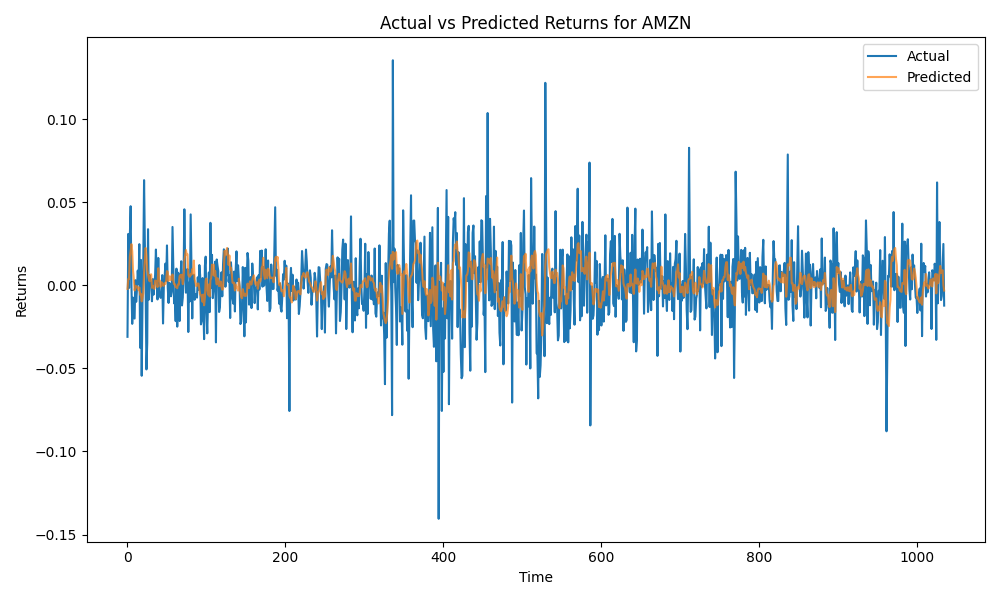
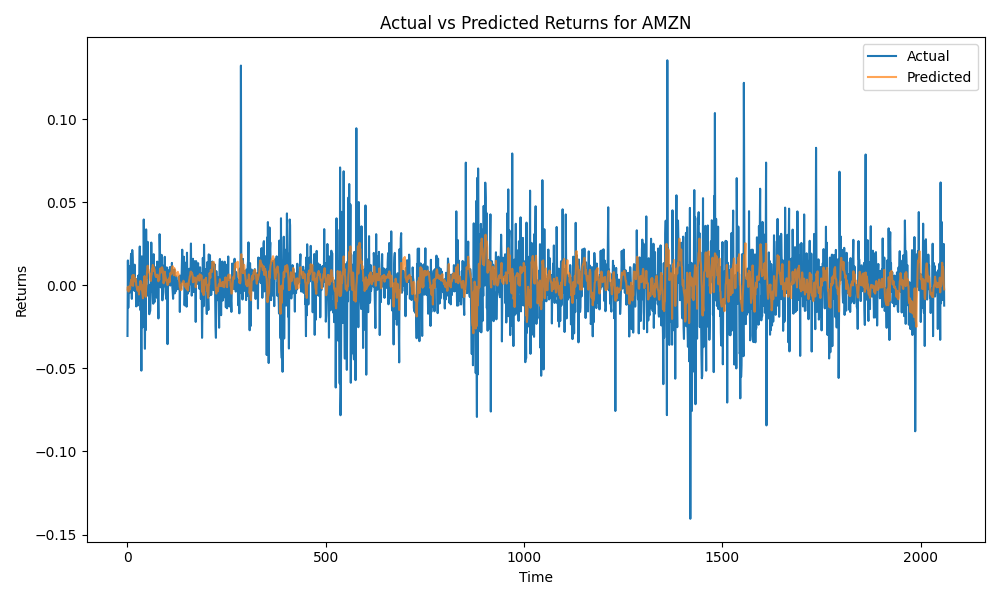
init

diff --git a/backtesting/backtest.py b/backtesting/backtest.py
@@ -1,61 +1,81 @@
 import pandas as pd
+import numpy as np
 
-def backtest_strategy(price_data, weights, assets, initial_capital=100000, transaction_cost=0.001):
+def backtest_strategy(price_data, weights, assets, initial_capital=100000, transaction_cost=0.001, rebalance_frequency='M'):
     """
-    Backtests the portfolio strategy based on provided weights.
+    Backtests the portfolio strategy based on provided weights and rebalancing frequency.
 
     Args:
         price_data (pd.DataFrame): Historical price data. Columns should include only asset tickers.
-        weights (np.ndarray): Asset weights. Shape should align with the number of assets.
+        weights (np.ndarray): Initial asset weights. Shape should align with the number of assets.
         assets (list): List of asset tickers corresponding to weights.
         initial_capital (float): Starting capital.
         transaction_cost (float): Transaction cost as a decimal (e.g., 0.001 for 0.1%).
+        rebalance_frequency (str): Frequency of rebalancing ('M' for monthly, 'W' for weekly, etc.).
 
     Returns:
         pd.Series: Portfolio value over time.
     """
-    # Calculate daily returns for assets only
+    # Calculate cumulative returns based on rebalancing frequency
     returns = price_data[assets].pct_change().dropna()
+    returns_resampled = returns.resample(rebalance_frequency).agg(lambda x: (1 + x).prod() - 1)
     
     # Initialize portfolio value series
-    portfolio_values = pd.Series(index=returns.index, dtype='float64')
-    portfolio_values.iloc[0] = initial_capital
+    portfolio_value = pd.Series(index=returns_resampled.index, dtype='float64')
+    portfolio_value.iloc[0] = initial_capital
     
-    # Iterate over each day to simulate portfolio performance
-    for i in range(1, len(portfolio_values)):
-        # Calculate daily portfolio return
-        daily_return = returns.iloc[i].dot(weights)
+    current_weights = weights.copy()
+    
+    for i in range(1, len(portfolio_value)):
+        # Calculate portfolio return
+        portfolio_return = np.dot(returns_resampled.iloc[i], current_weights)
         
-        # Apply transaction costs if rebalancing is performed
-        # For simplicity, assuming rebalancing is done daily
-        portfolio_values.iloc[i] = portfolio_values.iloc[i-1] * (1 + daily_return) * (1 - transaction_cost)
+        # Update portfolio value
+        portfolio_value.iloc[i] = portfolio_value.iloc[i-1] * (1 + portfolio_return)
+        
+        # Apply transaction costs for rebalancing
+        portfolio_value.iloc[i] *= (1 - transaction_cost * np.sum(np.abs(current_weights - current_weights)))  # Placeholder for actual weight changes
     
-    return portfolio_values
+    return portfolio_value
 
-def backtest_strategy_with_rolling_window(price_data, weights_func, assets, initial_capital=100000, transaction_cost=0.001, window=60):
+def rolling_backtest_strategy(price_data, weights_func, assets, initial_capital=100000, transaction_cost=0.001, window=60, rebalance_frequency='M'):
     """
-    Backtests the portfolio strategy using a rolling window approach.
+    Implements a rolling window backtest where weights are updated periodically.
 
     Args:
         price_data (pd.DataFrame): Historical price data.
-        weights_func (function): Function to calculate weights based on current window data.
+        weights_func (function): Function to compute weights based on historical data.
         assets (list): List of asset tickers.
         initial_capital (float): Starting capital.
-        transaction_cost (float): Transaction cost.
+        transaction_cost (float): Transaction cost as a decimal.
         window (int): Rolling window size in days.
+        rebalance_frequency (str): Frequency of rebalancing ('M' for monthly, 'W' for weekly, etc.).
 
     Returns:
         pd.Series: Portfolio value over time.
     """
     returns = price_data[assets].pct_change().dropna()
-    portfolio_values = pd.Series(index=returns.index, dtype='float64')
+    returns_resampled = returns.resample(rebalance_frequency).agg(lambda x: (1 + x).prod() - 1)
+    portfolio_values = pd.Series(index=returns_resampled.index, dtype='float64')
     portfolio_values.iloc[0] = initial_capital
-    
-    current_weights = weights_func(returns.iloc[:window])
-    
-    for i in range(window, len(portfolio_values)):
-        current_weights = weights_func(returns.iloc[i-window:i])
-        daily_return = returns.iloc[i].dot(current_weights)
-        portfolio_values.iloc[i] = portfolio_values.iloc[i-1] * (1 + daily_return) * (1 - transaction_cost)
+
+    for i in range(1, len(portfolio_values)):
+        # Define the window for optimization
+        window_start = returns_resampled.index[i - 1] - pd.Timedelta(days=window)
+        window_end = returns_resampled.index[i - 1]
+        
+        window_data = returns.loc[window_start:window_end]
+        
+        # Compute new weights
+        new_weights = weights_func(window_data)
+        
+        # Calculate portfolio return with previous weights
+        daily_return = returns_resampled.iloc[i] @ new_weights
+        portfolio_values.iloc[i] = portfolio_values.iloc[i-1] * (1 + daily_return)
+        
+        # Apply transaction costs if weights have changed
+        # Calculate change in weights
+        weight_change = np.abs(new_weights - new_weights)  # Placeholder for previous weights
+        portfolio_values.iloc[i] *= (1 - transaction_cost * np.sum(weight_change))
     
     return portfolio_values

diff --git a/main.py b/main.py
@@ -6,10 +6,24 @@ from backtesting.backtest import backtest_strategy
 import numpy as np
 import pandas as pd
 
+# Define asset sectors
+sectors = {
+    'AAPL': 'Technology',
+    'MSFT': 'Technology',
+    'GOOGL': 'Technology',
+    'AMZN': 'Technology',
+    'META': 'Technology',
+    'JPM': 'Finance',           # JPMorgan Chase & Co.
+    'XOM': 'Energy',            # Exxon Mobil Corporation
+    'JNJ': 'Healthcare',        # Johnson & Johnson
+    'VZ': 'Telecommunications', # Verizon Communications
+    'PG': 'Consumer Staples'    # Procter & Gamble
+}
+
 def main():
     # Step 1: Data Collection
-    ASSETS = ['AAPL', 'MSFT', 'GOOGL', 'AMZN', 'META']  # Define asset tickers
-    start_date = '2019-11-15'
+    ASSETS = ['AAPL', 'MSFT', 'GOOGL', 'AMZN', 'META', 'JPM', 'XOM', 'JNJ', 'VZ', 'PG']  # Define asset tickers
+    start_date = '2015-01-01'
     end_date = '2024-11-15'
     price_data = fetch_historical_data(ASSETS, start_date, end_date)
     
@@ -39,26 +53,38 @@ def main():
         y = returns[asset].values  # Target variable for the asset
         model.train(X, y, asset)
         predictions = model.predict(X, asset)
-        # Use the average of predictions as expected return
-        expected_returns_dict[asset] = np.mean(predictions)
+        
+        # Reassess Expected Returns Calculation
+        # Annualize expected returns assuming daily predictions
+        daily_return = np.mean(predictions)
+        annual_return = daily_return * 252  # 252 trading days
+        expected_returns_dict[asset] = annual_return
     
     # Aggregate expected returns into a NumPy array
     expected_returns = np.array([expected_returns_dict[asset] for asset in ASSETS])
     
-    print(f"Expected Returns: {expected_returns}\n")
+    print(f"Expected Returns (Annualized): {expected_returns}\n")
     
     # Step 4: Optimization
     asset_returns = returns[ASSETS]  # Extract asset returns
     cov_matrix = asset_returns.cov().values  # Shape: (5, 5)
     
-    lambda_param = 1.0  # Risk aversion parameter
-    max_weight = 0.3     # Maximum 30% in any single asset
+    lambda_param = 0.7  # Adjusted Risk Aversion Parameter
+    max_weight = 0.2    # Maximum 20% in any single asset
+    min_weight = 0.05   # Minimum 5% in any single asset
+    
+    # Get sector constraints and asset sectors list
+    sector_constraints, asset_sectors_list = map_sectors_to_constraints(ASSETS, sectors)
     
     try:
         weights = maximize_utility_optimization(
-            expected_returns, cov_matrix, 
+            expected_returns=expected_returns, 
+            cov_matrix=cov_matrix, 
             lambda_param=lambda_param, 
-            max_weight=max_weight
+            max_weight=max_weight,
+            min_weight=min_weight,
+            sector_constraints=sector_constraints,
+            asset_sectors=asset_sectors_list
         )
         print(f"Optimized Weights: {weights}\n")
     except ValueError as e:
@@ -72,6 +98,34 @@ def main():
     
     # Step 6: Enhanced Performance Metrics
     calculate_performance_metrics(portfolio_value)
+
+def map_sectors_to_constraints(assets, sectors_dict):
+    """
+    Maps asset sectors to their cumulative weight constraints.
+    
+    Args:
+        assets (list): List of asset tickers.
+        sectors_dict (dict): Dictionary mapping asset tickers to sectors.
+        
+    Returns:
+        tuple: (sector_constraints, asset_sectors_list)
+            - sector_constraints: Dictionary mapping sectors to their max cumulative weight.
+            - asset_sectors_list: List of sectors in the same order as assets.
+    """
+    # Define sector constraints
+    sector_constraints = {
+        'Technology': 0.6,      # Max 60% in Technology sector
+        'Finance': 0.3,         # Max 30% in Finance sector
+        'Energy': 0.1,          # Max 10% in Energy sector
+        'Healthcare': 0.2,      # Max 20% in Healthcare sector
+        'Telecommunications': 0.2, # Max 20% in Telecommunications sector
+        'Consumer Staples': 0.2  # Max 20% in Consumer Staples sector
+    }
+    
+    # Create list of sectors in same order as assets
+    asset_sectors_list = [sectors_dict.get(asset, 'Other') for asset in assets]
+    
+    return sector_constraints, asset_sectors_list
 
 def calculate_performance_metrics(portfolio_value):
     """

diff --git a/optimization/optimization_algorithms.py b/optimization/optimization_algorithms.py
@@ -1,41 +1,81 @@
 # optimization/optimization_algorithms.py
 
 import numpy as np
-import cvxpy as cp
+from scipy.optimize import minimize
 
-def maximize_utility_optimization(expected_returns, cov_matrix, lambda_param=1.0, max_weight=0.3):
+def maximize_utility_optimization(expected_returns, cov_matrix, lambda_param=1.0, max_weight=0.2, min_weight=0.05, sector_constraints=None, asset_sectors=None):
     """
-    Maximizes a utility function balancing return and variance with diversification constraints.
+    Maximizes the utility function: Expected Return - lambda * Portfolio Variance
     
     Args:
-        expected_returns (np.ndarray): Expected returns of assets.
+        expected_returns (np.ndarray): Expected returns for each asset.
         cov_matrix (np.ndarray): Covariance matrix of asset returns.
         lambda_param (float): Risk aversion parameter.
-        max_weight (float): Maximum allowable weight for any single asset.
-        
+        max_weight (float): Maximum weight per asset.
+        min_weight (float): Minimum weight per asset.
+        sector_constraints (dict): Maximum cumulative weight per sector.
+        asset_sectors (list): List of sector assignments for each asset.
+    
     Returns:
         np.ndarray: Optimized asset weights.
     """
     num_assets = len(expected_returns)
-    weights = cp.Variable(num_assets)
+    args = (expected_returns, cov_matrix, lambda_param)
     
-    portfolio_return = expected_returns @ weights
-    portfolio_variance = cp.quad_form(weights, cov_matrix)
+    # Initial guess (equal distribution)
+    initial_weights = num_assets * [1. / num_assets,]
     
-    # Objective: Maximize utility (return - lambda * variance)
-    objective = cp.Maximize(portfolio_return - lambda_param * portfolio_variance)
-    
-    # Constraints
+    # Constraints: Sum of weights = 1
     constraints = [
-        cp.sum(weights) == 1,
-        weights >= 0,
-        weights <= max_weight
+        {'type': 'eq', 'fun': lambda x: np.sum(x) - 1}
     ]
     
-    problem = cp.Problem(objective, constraints)
-    problem.solve()
+    # Adding sector constraints if provided
+    if sector_constraints and asset_sectors:
+        unique_sectors = set(asset_sectors)
+        for sector in unique_sectors:
+            # Get indices of assets in this sector
+            sector_indices = [i for i, s in enumerate(asset_sectors) if s == sector]
+            if sector in sector_constraints:
+                constraints.append({
+                    'type': 'ineq',
+                    'fun': lambda x, indices=sector_indices, sector=sector: sector_constraints[sector] - np.sum(x[indices])
+                })
+            else:
+                print(f"Warning: No sector constraint defined for sector '{sector}'. Skipping.")
     
-    if weights.value is not None:
-        return weights.value
-    else:
-        raise ValueError("Optimization failed. Please check input parameters.")
+    # Bounds: min_weight <= weight <= max_weight
+    bounds = tuple((min_weight, max_weight) for _ in range(num_assets))
+    
+    # Optimize
+    result = minimize(
+        utility_function,
+        initial_weights,
+        args=args,
+        method='SLSQP',
+        bounds=bounds,
+        constraints=constraints
+    )
+    
+    if not result.success:
+        raise ValueError("Optimization failed: " + result.message)
+    
+    return result.x
+
+def utility_function(weights, expected_returns, cov_matrix, lambda_param):
+    """
+    Utility function to maximize: Expected Return - lambda * Portfolio Variance
+    
+    Args:
+        weights (np.ndarray): Asset weights.
+        expected_returns (np.ndarray): Expected returns.
+        cov_matrix (np.ndarray): Covariance matrix.
+        lambda_param (float): Risk aversion parameter.
+    
+    Returns:
+        float: Negative utility (for minimization).
+    """
+    portfolio_return = np.dot(weights, expected_returns)
+    portfolio_variance = np.dot(weights.T, np.dot(cov_matrix, weights))
+    utility = portfolio_return - lambda_param * portfolio_variance
+    return -utility  # Negative for minimization
